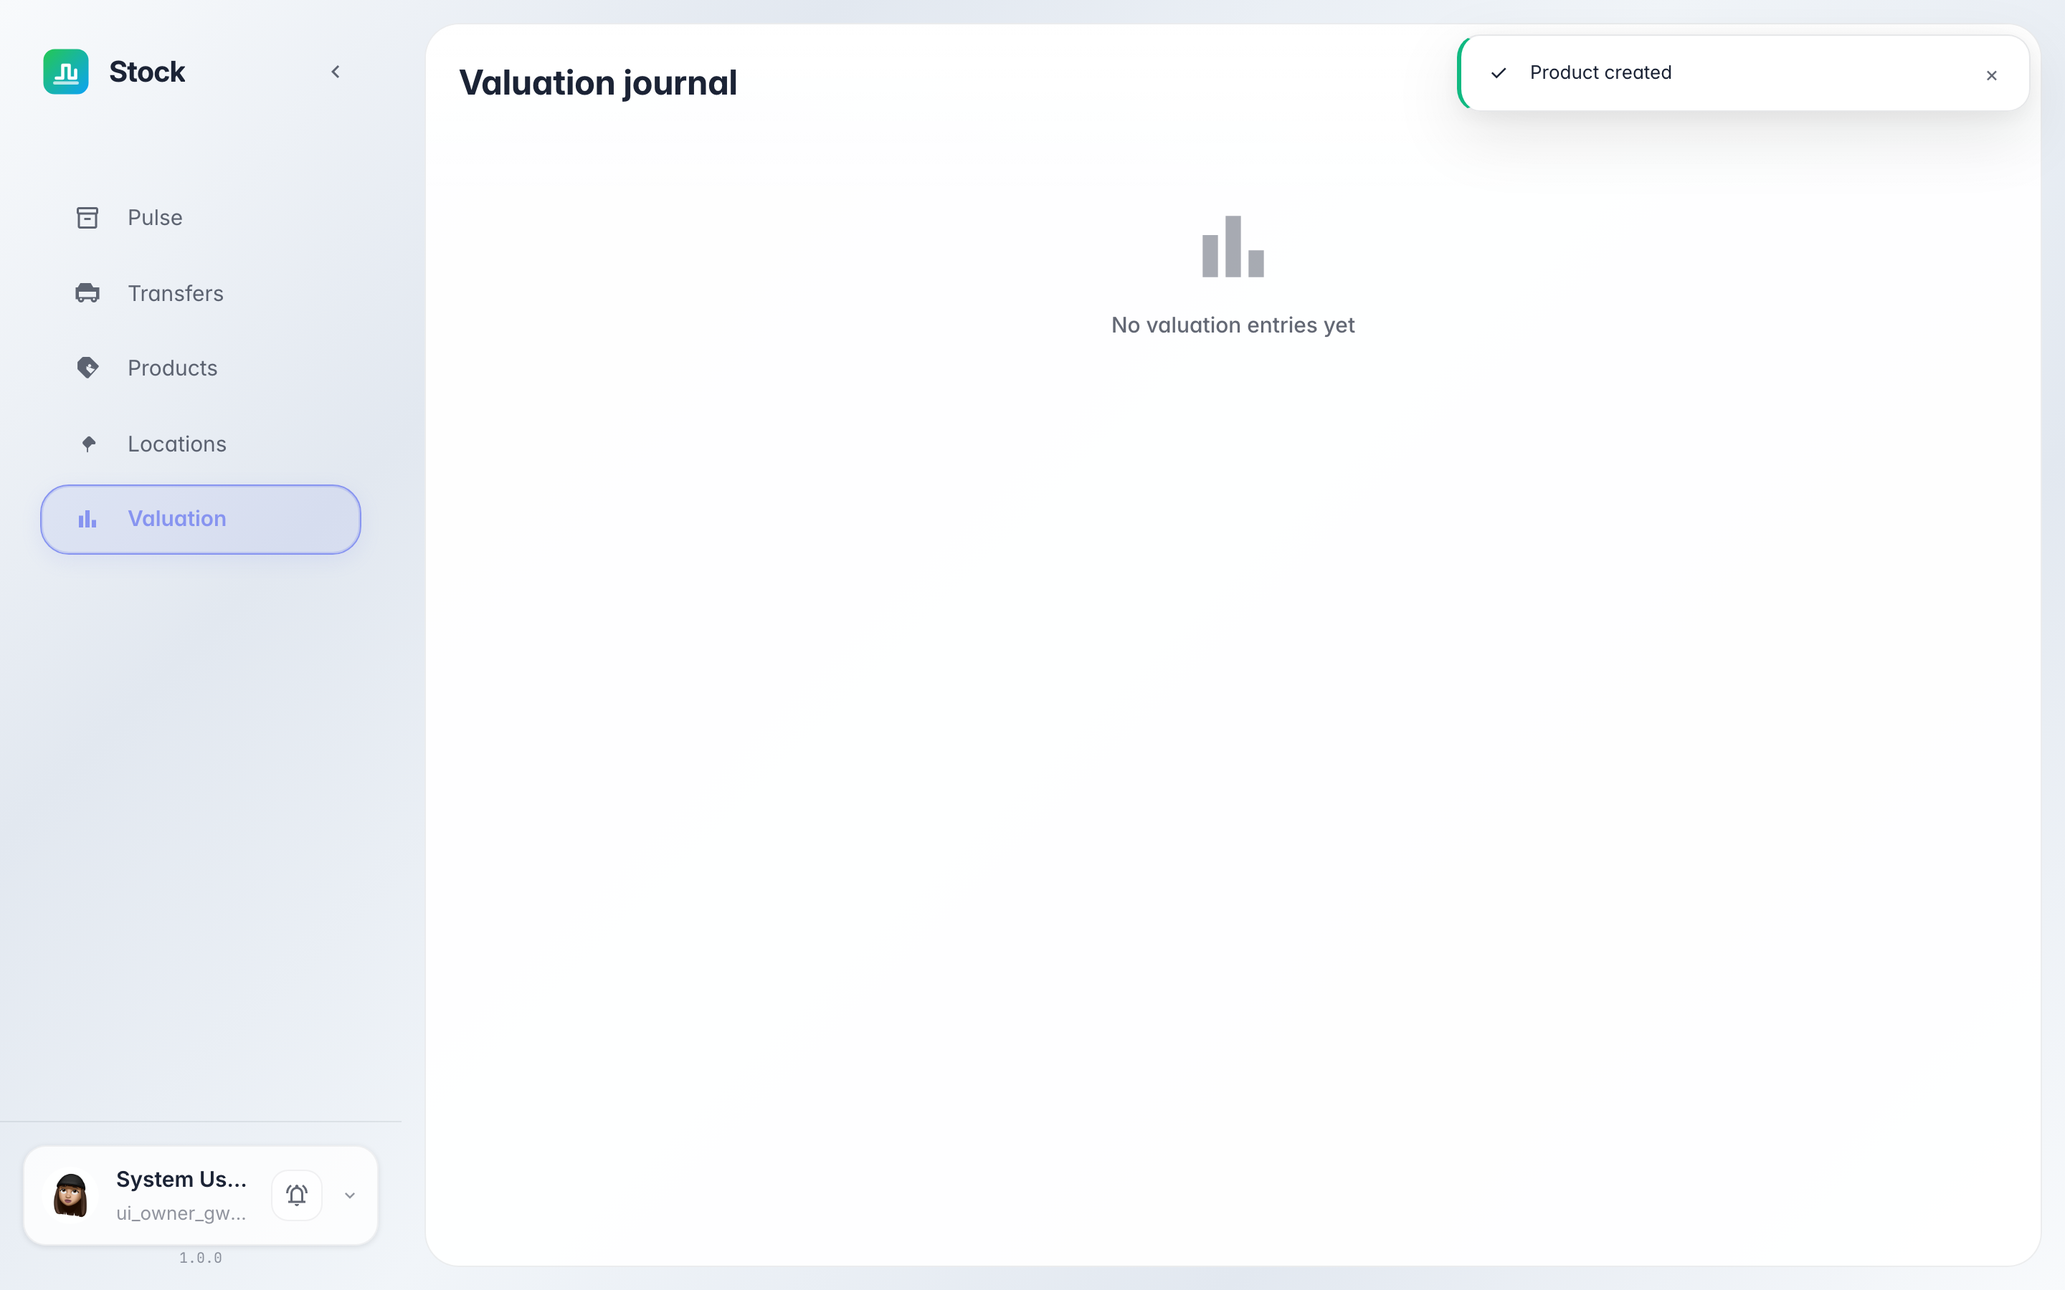
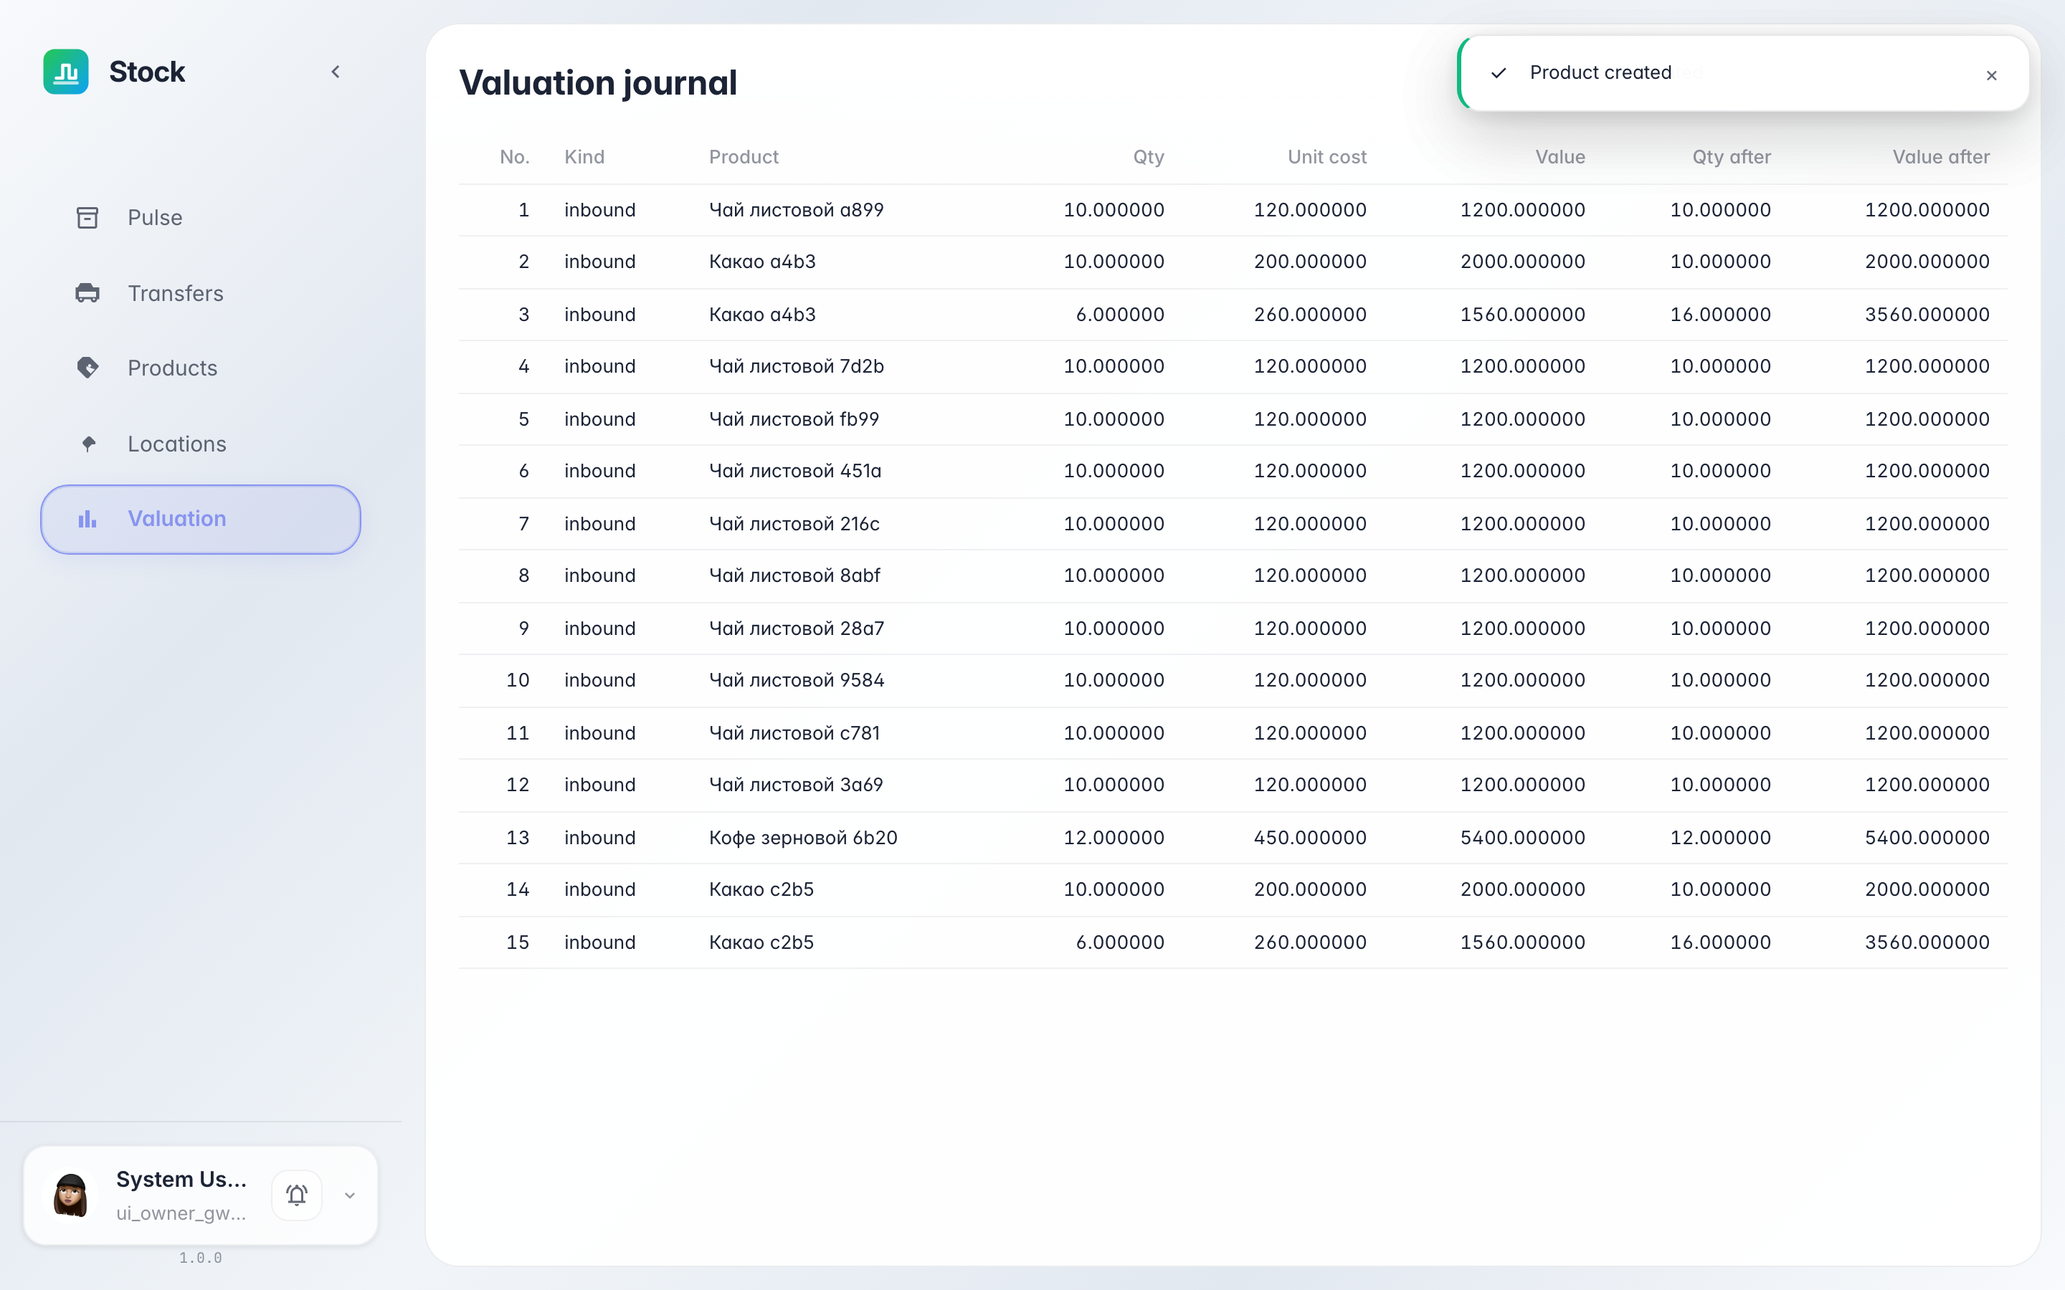
stock: имена вместо сырых ID + фикс сценария перемещения под putaway
UI показывал пользователю сырые spr_/loc_ идентификаторы: карточка
перевода, журнал оценки, пульс склада и колонка «Родитель» у локаций.
Теперь страницы резолвят названия через ресурсы stock/products и
stock/locations; у внешних псевдо-локаций (partner:*) записи в
справочнике нет — показывается id как есть.

Сценарий transfer-between-locations зависал в partially_available:
putaway-рефлекс кладёт приход не в запрошенную зону, а в выбранную
им ячейку (dest_overrides из stock_decisions). Сценарий читает
фактическую ячейку приёмки из документа и делает перемещение из неё.

Generated with [Devin](https://devin.ai)

diff --git a/apps/stock/ui/pages/stock-transfer-page.ts b/apps/stock/ui/pages/stock-transfer-page.ts
@@ -5,7 +5,7 @@
 import { html, css } from 'lit';
 import type { PropertyValues } from 'lit';
 import { PlatformPage } from '@platform/lib/base/PlatformPage.js';
-import type { OpController } from '@platform/lib/base/use-resource.js';
+import type { OpController, ResourceController } from '@platform/lib/base/use-resource.js';
 import { isPlainRecord } from '@platform/lib/events/payload.js';
 
 interface TransferDetail {
@@ -35,6 +35,8 @@ export class StockTransferPage extends PlatformPage {
     private _assign: OpController;
     private _validate: OpController;
     private _cancel: OpController;
+    private _products: ResourceController;
+    private _locations: ResourceController;
 
     static override properties = {
         transferId: { attribute: 'transfer-id' },
@@ -68,6 +70,25 @@ export class StockTransferPage extends PlatformPage {
         this._assign = this.useOp('stock/transfer_assign');
         this._validate = this.useOp('stock/transfer_validate');
         this._cancel = this.useOp('stock/transfer_cancel');
+        this._products = this.useResource('stock/products', { autoload: true });
+        this._locations = this.useResource('stock/locations', { autoload: true });
+    }
+
+    /** Имена по справочникам; у внешних псевдо-локаций (partner:*) записи нет — показываем id. */
+    private _nameMaps(): { products: Map<string, string>; locations: Map<string, string> } {
+        const products = new Map<string, string>();
+        for (const row of this._products.items as { product_id?: unknown; name?: unknown }[]) {
+            if (typeof row.product_id === 'string' && typeof row.name === 'string') {
+                products.set(row.product_id, row.name);
+            }
+        }
+        const locations = new Map<string, string>();
+        for (const row of this._locations.items as { location_id?: unknown; name?: unknown }[]) {
+            if (typeof row.location_id === 'string' && typeof row.name === 'string') {
+                locations.set(row.location_id, row.name);
+            }
+        }
+        return { products, locations };
     }
 
     override connectedCallback(): void {
@@ -100,6 +121,7 @@ export class StockTransferPage extends PlatformPage {
         }
         const transfer = detail.transfer;
         const lines: NonNullable<TransferDetail['lines']> = detail.lines === undefined ? [] : detail.lines;
+        const names = this._nameMaps();
         return html`
             <div class="wrap">
                 <h1>${transfer.name}</h1>
@@ -121,9 +143,9 @@ export class StockTransferPage extends PlatformPage {
                     <tbody>
                         ${lines.map((line) => html`
                             <tr>
-                                <td>${line.product_id}</td>
-                                <td>${line.location_id}</td>
-                                <td>${line.location_dest_id}</td>
+                                <td>${names.products.get(String(line.product_id)) ?? line.product_id}</td>
+                                <td>${names.locations.get(String(line.location_id)) ?? line.location_id}</td>
+                                <td>${names.locations.get(String(line.location_dest_id)) ?? line.location_dest_id}</td>
                                 <td class="num">${line.quantity}</td>
                                 <td class="num">${line.done_quantity}</td>
                             </tr>

diff --git a/apps/stock/ui/pages/stock-home-page.ts b/apps/stock/ui/pages/stock-home-page.ts
@@ -51,6 +51,8 @@ export class StockHomePage extends PlatformPage {
     declare _warehouseId: string;
     private _warehouses: ResourceController;
     private _pulse: OpController;
+    private _products: ResourceController;
+    private _locations: ResourceController;
 
     static override properties = {
         _pulse: { state: true },
@@ -86,6 +88,25 @@ export class StockHomePage extends PlatformPage {
         this._warehouses = this.useResource('stock/warehouses', { autoload: true });
         this._pulse = this.useOp('stock/warehouse_pulse');
         this._warehouseId = '';
+        this._products = this.useResource('stock/products', { autoload: true });
+        this._locations = this.useResource('stock/locations', { autoload: true });
+    }
+
+    /** Имена по справочникам; у внешних псевдо-локаций (partner:*) записи нет — показываем id. */
+    private _nameMaps(): { products: Map<string, string>; locations: Map<string, string> } {
+        const products = new Map<string, string>();
+        for (const row of this._products.items as { product_id?: unknown; name?: unknown }[]) {
+            if (typeof row.product_id === 'string' && typeof row.name === 'string') {
+                products.set(row.product_id, row.name);
+            }
+        }
+        const locations = new Map<string, string>();
+        for (const row of this._locations.items as { location_id?: unknown; name?: unknown }[]) {
+            if (typeof row.location_id === 'string' && typeof row.name === 'string') {
+                locations.set(row.location_id, row.name);
+            }
+        }
+        return { products, locations };
     }
 
     override updated(changed: PropertyValues<this>): void {
@@ -102,6 +123,7 @@ export class StockHomePage extends PlatformPage {
     override render() {
         const rawPulse = this._pulse.lastResult;
         const pulse = isWarehousePulse(rawPulse) ? rawPulse : null;
+        const names = this._nameMaps();
         return html`
             <div class="wrap">
                 <h1>${this.t('home.title')}</h1>
@@ -125,8 +147,8 @@ export class StockHomePage extends PlatformPage {
                             <tbody>
                                 ${(pulse.quants === undefined ? [] : pulse.quants).map((row: PulseQuantRow) => html`
                                     <tr>
-                                        <td>${row.product_id}</td>
-                                        <td>${row.location_id}</td>
+                                        <td>${names.products.get(String(row.product_id)) ?? row.product_id}</td>
+                                        <td>${names.locations.get(String(row.location_id)) ?? row.location_id}</td>
                                         <td class="num">${row.quantity}</td>
                                         <td class="num">${row.reserved_quantity}</td>
                                         <td class="num">${row.available_quantity}</td>

diff --git a/apps/stock/ui/pages/stock-valuation-page.ts b/apps/stock/ui/pages/stock-valuation-page.ts
@@ -4,7 +4,7 @@
 
 import { html, css } from 'lit';
 import { PlatformPage } from '@platform/lib/base/PlatformPage.js';
-import type { OpController } from '@platform/lib/base/use-resource.js';
+import type { OpController, ResourceController } from '@platform/lib/base/use-resource.js';
 import { isPlainRecord } from '@platform/lib/events/payload.js';
 import '@platform/lib/components/platform-empty-state.js';
 
@@ -19,6 +19,7 @@ export class StockValuationPage extends PlatformPage {
     static i18nNamespace = 'stock';
 
     private _layers: OpController;
+    private _products: ResourceController;
 
     static override styles = [
         PlatformPage.styles,
@@ -41,11 +42,23 @@ export class StockValuationPage extends PlatformPage {
         super();
         this._layers = this.useOp('stock/valuation_layers_list');
         this._layers.run({});
+        this._products = this.useResource('stock/products', { autoload: true });
+    }
+
+    private _productNames(): Map<string, string> {
+        const names = new Map<string, string>();
+        for (const row of this._products.items as { product_id?: unknown; name?: unknown }[]) {
+            if (typeof row.product_id === 'string' && typeof row.name === 'string') {
+                names.set(row.product_id, row.name);
+            }
+        }
+        return names;
     }
 
 
     override render() {
         const items = _layerItems(this._layers.lastResult);
+        const productNames = this._productNames();
         return html`
             <div class="wrap">
                 <h1>${this.t('valuation.title')}</h1>
@@ -70,7 +83,7 @@ export class StockValuationPage extends PlatformPage {
                                     <tr>
                                         <td class="num">${row.entry_no}</td>
                                         <td>${row.entry_kind}</td>
-                                        <td>${row.product_id}</td>
+                                        <td>${productNames.get(String(row.product_id)) ?? row.product_id}</td>
                                         <td class="num">${row.quantity}</td>
                                         <td class="num">${row.unit_cost}</td>
                                         <td class="num">${row.value}</td>

diff --git a/apps/stock/ui/pages/stock-locations-page.ts b/apps/stock/ui/pages/stock-locations-page.ts
@@ -36,6 +36,14 @@ export class StockLocationsPage extends PlatformPage {
 
     override render() {
         const items = this._locations.items;
+        const names = new Map<string, string>();
+        for (const row of items as { location_id?: unknown; name?: unknown }[]) {
+            if (typeof row.location_id === 'string' && typeof row.name === 'string') {
+                names.set(row.location_id, row.name);
+            }
+        }
+        const nameOf = (id: unknown): unknown =>
+            typeof id === 'string' ? names.get(id) ?? id : '';
         return html`
             <div class="wrap">
                 <h1>${this.t('locations.title')}</h1>
@@ -56,7 +64,7 @@ export class StockLocationsPage extends PlatformPage {
                                     <tr>
                                         <td>${row.name}</td>
                                         <td>${row.usage}</td>
-                                        <td>${typeof row.parent_id === 'string' ? row.parent_id : ''}</td>
+                                        <td>${nameOf(row.parent_id)}</td>
                                         <td>${row.removal_method}</td>
                                     </tr>
                                 `)}

diff --git a/tests/ui/e2e/test_stock_doc_transfers.py b/tests/ui/e2e/test_stock_doc_transfers.py
@@ -243,14 +243,26 @@ async def test_transfer_between_locations(
         },
     )
 
-    # Остаток в ячейке A: приход с явной зоной приёмки, проведён до done.
-    receipt_id = await _create_incoming(page, ctx, "10", dest_location_id=bin_a["location_id"])
+    # Остаток в зоне приёмки: приход проведён до done. Финальную ячейку выбирает
+    # putaway — читаем, куда товар реально лёг.
+    receipt_id = await _create_incoming(page, ctx, "10", dest_location_id=zone["location_id"])
     await stock_e2e_nav(page, 1, page_selector="stock-transfers-page")
     await stock_e2e_open_transfer(page, receipt_id)
     await stock_e2e_transfer_action(page, 0, "stock/transfer_confirm", "assigned")
     await stock_e2e_transfer_action(page, 2, "stock/transfer_validate", "done")
+    receipt = await stock_e2e_op(
+        page,
+        "stock/transfer_item", "stock/transfer_item/requested",
+        {"transfer_id": receipt_id},
+    )
+    receipt_dest = receipt["moves"][0]["location_dest_id"]
+    src_bin_id, dst_bin_id = (
+        (bin_a["location_id"], bin_b["location_id"])
+        if receipt_dest == bin_a["location_id"]
+        else (bin_b["location_id"], bin_a["location_id"])
+    )
 
-    # Внутреннее перемещение A -> B.
+    # Внутреннее перемещение из ячейки, где лежит остаток, во вторую ячейку.
     op_types = await stock_e2e_op(
         page,
         "stock/operation_types_list", "stock/operation_types_list/requested",
@@ -270,8 +282,8 @@ async def test_transfer_between_locations(
                     "product_id": ctx["product_id"],
                     "product_qty": "4",
                     "uom_id": ctx["uom_id"],
-                    "location_id": bin_a["location_id"],
-                    "location_dest_id": bin_b["location_id"],
+                    "location_id": src_bin_id,
+                    "location_dest_id": dst_bin_id,
                 }
             ],
         },

diff --git a/tests/ui/e2e/test_stock_doc_valuation.py b/tests/ui/e2e/test_stock_doc_valuation.py
@@ -75,11 +75,12 @@ async def test_valuation_report(
 
     uoms = await stock_e2e_op(page, "stock/uoms_list", "stock/uoms_list/requested")
     uom_id = next(u["uom_id"] for u in uoms["items"] if u["name"] == "Units")
+    product_name = f"Какао {unique_id[:4]}"
     product = await stock_e2e_op(
         page,
         "stock/product_create", "stock/product_create/requested",
         {
-            "name": f"Какао {unique_id[:4]}",
+            "name": product_name,
             "sku": f"CCAO-{unique_id[:6]}",
             "uom_id": uom_id,
             "valuation_method": "fifo",
@@ -126,7 +127,7 @@ async def test_valuation_report(
         await stock_e2e_nav(page, 1, page_selector="stock-transfers-page")
 
     await stock_e2e_nav(page, 4, page_selector="stock-valuation-page")
-    rows = page.locator("stock-valuation-page table tbody tr", has_text=product_id)
+    rows = page.locator("stock-valuation-page table tbody tr", has_text=product_name)
     await expect(rows.first).to_be_visible(timeout=30_000)
     await expect(rows).to_have_count(2, timeout=15_000)
     await scenario.step(

diff --git a/tests/ui/e2e/test_stock_doc_incoming.py b/tests/ui/e2e/test_stock_doc_incoming.py
@@ -196,7 +196,7 @@ async def test_stock_incoming_receipt(
 
     await stock_e2e_nav(page, 4, page_selector="stock-valuation-page")
     layer_row = page.locator(
-        "stock-valuation-page table tbody tr", has_text=product_id
+        "stock-valuation-page table tbody tr", has_text=product_name
     ).first
     await expect(layer_row).to_be_visible(timeout=30_000)
     await expect(layer_row).to_contain_text("inbound")

diff --git a/tests/ui/e2e/stock_doc_coverage_matrix.md b/tests/ui/e2e/stock_doc_coverage_matrix.md
@@ -43,15 +43,15 @@
 | Уровень | doc_slug | Инструкция | Тест | Статус |
 |---|---|---|---|---|
 | 1 | `stock-incoming` | Провести поступление товара на склад | `test_stock_doc_incoming.py` | ✅ |
-| 2 | `receive-stock` | Приход товара на склад от поставщика | `test_stock_doc_transfers.py` | 📝 |
-| 2 | `transfer-between-locations` | Перемещение между складами | `test_stock_doc_transfers.py` | 📝 |
-| 3 | `transfers-journal` | Журнал движений, детали проводки | `test_stock_doc_transfers.py` | 📝 |
+| 2 | `receive-stock` | Приход товара на склад от поставщика | — | ⛔ дубль `stock-incoming` |
+| 2 | `transfer-between-locations` | Перемещение между складами | `test_stock_doc_transfers.py` | ✅ |
+| 3 | `transfers-journal` | Журнал движений, детали проводки | `test_stock_doc_transfers.py` | ✅ |
 
 ### valuation — Оценка запасов
 
 | Уровень | doc_slug | Инструкция | Тест | Статус |
 |---|---|---|---|---|
-| 3 | `valuation-report` | Стоимость запасов по складам | `test_stock_doc_valuation.py` | 📝 |
+| 3 | `valuation-report` | Стоимость запасов по складам | `test_stock_doc_valuation.py` | ✅ |
 
 ## Долг и заметки
 
